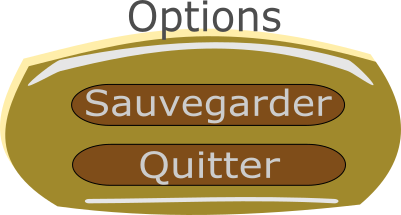
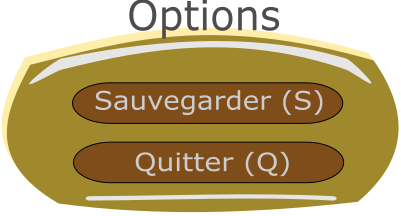
chargement ey sauvegarde de base

diff --git a/Story/histoire.py b/Story/histoire.py
@@ -568,18 +568,15 @@ def nivo1(sac,action,Gus):
                 screen.blit(textsurface,(270,400))
                 screen.blit(textsurface2,(270,420)) 
                 papa_fouillab = True                                     
-            if sac.Cle_maison == False and dad_sleep == False and mom_sleep == True:               
-                textsurface = myfont.render("Papa ne dort pas, c'est tendu!! ", False, (110, 110, 110)) 
-                textsurface2 = myfont.render("Et j'ai pas les clés!", False, (110, 110, 110)) 
-                screen.blit(fond_text,(260,380))
-                screen.blit(textsurface,(280,400))
-                screen.blit(textsurface2,(280,420)) 
+
             if sac.Cle_maison == True and dad_sleep == True and mom_sleep == False:               
-                textsurface = myfont.render("Maman ne dort pas,", False, (110, 110, 110)) 
-                textsurface2 = myfont.render("c'est tendu!!", False, (110, 110, 110)) 
+                textsurface = myfont.render("Tu as ouvert ", False, (110, 110, 110)) 
+                textsurface2 = myfont.render("la porte d'entrée!", False, (110, 110, 110)) 
                 screen.blit(fond_text,(260,380))
                 screen.blit(textsurface,(280,400))
                 screen.blit(textsurface2,(280,420))
+                porte_entre = True
+                Gus.porte_entre = True
             if sac.Cle_maison == True and dad_sleep == True and mom_sleep == True:               
                 textsurface = myfont.render("Tu as ouvert ", False, (110, 110, 110)) 
                 textsurface2 = myfont.render("la porte d'entrée!", False, (110, 110, 110)) 
@@ -611,7 +608,7 @@ def nivo1(sac,action,Gus):
         if keys[pygame.K_TAB]:
             affich_sac(screen,sac)
         if (Gus.pause%2) == 1:
-            pause(screen,gameExit)
+            pause(screen,gameExit,Gus,sac)
         if Gus.pv == 0:
             game_over(screen)
 
@@ -787,7 +784,7 @@ def nivo2(sac,action,Gus):
         if keys[pygame.K_TAB]:
             affich_sac(screen,sac)
         if (Gus.pause%2) == 1:
-            pause(screen,gameExit)
+            pause(screen,gameExit,Gus,sac)
         if Gus.pv == 0:
             game_over(screen)
 

diff --git a/Story/Fonctions.py b/Story/Fonctions.py
@@ -6,6 +6,7 @@ Created on Thu Nov 25 15:43:41 2021
 """
 import pygame
 from settings import *
+import pandas as pd
 
 def collisions (liste_objet,rect_gugus,x_change,y_change,speed,rel_x,rel_y):
 
@@ -161,32 +162,30 @@ def affich_sac(screen,sac):
         screen.blit(textsurface,(75,i))
         i += 20
 
-def pause(screen,gameExit):
-    import os
-    selection = pygame.Rect((130, 230), (260, 50))
-    saving_area = pygame.Rect((130, 230), (260, 50))
-    leaving_area = pygame.Rect((130, 290), (260, 50))
-    rect_surf = pygame.Surface(leaving_area.size)
-    rect_leav = pygame.Surface(saving_area.size)
-    rect_select = pygame.Surface(selection.size)
-    
-    
-    if saving_area.colliderect(selection):
-        
-        keys=pygame.key.get_pressed()
-        if keys[pygame.K_RETURN]:
-            os.startfile('requirements.txt')
-            print("ca fonctionne")
-    
-    elif leaving_area.colliderect(selection):
-        keys=pygame.key.get_pressed()
-        if keys[pygame.K_RETURN]: 
-            gameExit = True
+def pause(screen,gameExit,Gus,sac):
+    keys=pygame.key.get_pressed()
     
     screen.blit(poze, (50 , 150))
-    screen.blit(rect_surf,saving_area)
-    screen.blit(rect_leav,leaving_area)
-    screen.blit(rect_select,selection)
+    
+    if keys[pygame.K_s]:
+        d = {'level': [Gus.level]}
+        df = pd.DataFrame(data=d)
+        df.to_csv("Story/saves/save.csv", sep=";")
+        
+        pygame.font.init()
+ 
+        myfont = pygame.font.SysFont('corbel', 25, bold=True)
+        
+        textsurface = myfont.render("Partie sauvegardée", False, (0, 0, 0))
+        screen.blit(textsurface,(135,350))
+
+    if keys[pygame.K_q]: 
+        pygame.quit()
+
+def load(sac,Gus):
+    data = pd.read_csv("Story/saves/save.csv", sep=";")
+    return(int(data["level"]))
+    
 
 def game_over(screen):
     screen.fill(black)

diff --git a/GusOut.py b/GusOut.py
@@ -5,6 +5,8 @@ Created on Tue Nov 23 16:02:54 2021
 @author: basti
 """
 import pygame
+import pandas as pd
+
 from Story.Fonctions import *
 from Story.histoire import *
 from Level.Levels import *
@@ -17,11 +19,51 @@ Gus = Gus()
 sac = sac_a_dos()
 action=action_key()
 
-if Gus.level == 1:
-    nivo1(sac,action,Gus)
+gameExit = False
 
-if Gus.level == 2:
-    nivo2(sac,action,Gus)
+while not gameExit:
+    for event in pygame.event.get():
+        if event.type == pygame.QUIT:
+            gameExit = True
+    demarrer = pygame.Rect(25,25,450,130)
+    charger = pygame.Rect(25,180,450,130)
+    quitter = pygame.Rect(25,335,450,130)
+    
+    pygame.draw.rect(screen,green,demarrer)
+    pygame.draw.rect(screen,blue,charger)
+    pygame.draw.rect(screen,red,quitter)
+    
+    dem_font = pygame.font.SysFont('corbel', 40, bold=True)
+
+    text_demarrer = dem_font.render("DEMARRER (ENTER)", False, (0, 0, 0))
+    screen.blit(text_demarrer,(80,75))
+    text_load = dem_font.render("CHARGER (L)", False, (0, 0, 0))
+    screen.blit(text_load,(140,230))
+    text_quitter = dem_font.render("QUITTER (Q)", False, (0, 0, 0))
+    screen.blit(text_quitter,(150,395))
+    
+    keys=pygame.key.get_pressed()
+    
+    if keys[pygame.K_RETURN]:
+        Gus_level = 1
+        if Gus.level == 1 :
+            nivo1(sac,action,Gus)
+        if Gus.level == 2 :
+            nivo2(sac,action,Gus)
+    if keys[pygame.K_l]:
+        Gus.level=load(sac,Gus)
+        if Gus.level == 1 :
+            nivo1(sac,action,Gus)
+        if Gus.level == 2 :
+            nivo2(sac,action,Gus)
+
+    if keys[pygame.K_q]:
+        pygame.quit()
+        
+    print(Gus.level)
+      
+
+    pygame.display.update()
 
 
 pygame.quit()

diff --git a/Level/Levels.py b/Level/Levels.py
@@ -8,7 +8,9 @@ import pygame
 
 white = (255,255,255)
 black = (0,0,0)
-
+red = (255,0,0)
+green = (0,255,0)
+blue = (0,0,255)
 
 class zone_inter(pygame.Rect):
     def __init__(self,x,y,largeur,hauteur):
@@ -26,8 +28,7 @@ def zone_level_1():
 class wall(pygame.Rect):
     def __init__(self,x,y,largeur,hauteur,rel_x,rel_y):
         pygame.Rect.__init__(self,x+rel_x,y+rel_y,largeur,hauteur)
-
-        
+    
 def level_1(gameDisplay,screen_x,screen_y):
     
     fond=pygame.image.load('Level/level_1.jpg').convert()

diff --git a/settings.py b/settings.py
@@ -12,6 +12,8 @@ display_height = 500
 black = (0,0,0)
 white = (255,255,255)
 red = (255,0,0)
+green = (0,255,0)
+blue = (0,0,255)
 
 gugus_face = pygame.image.load('Gus/Gus.png')
 gugus_walkdown_1 = pygame.image.load('Gus/Gus_1.png')
